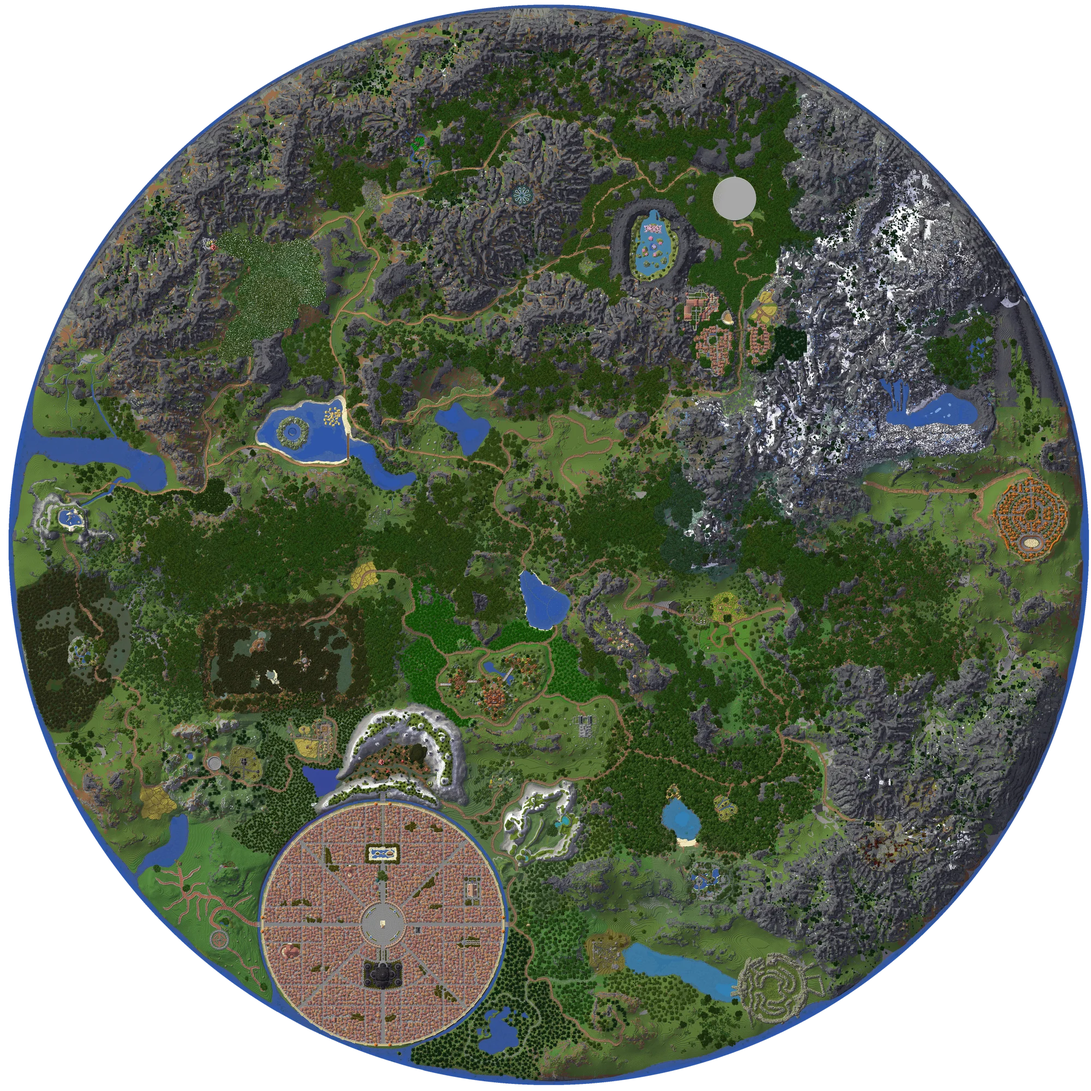
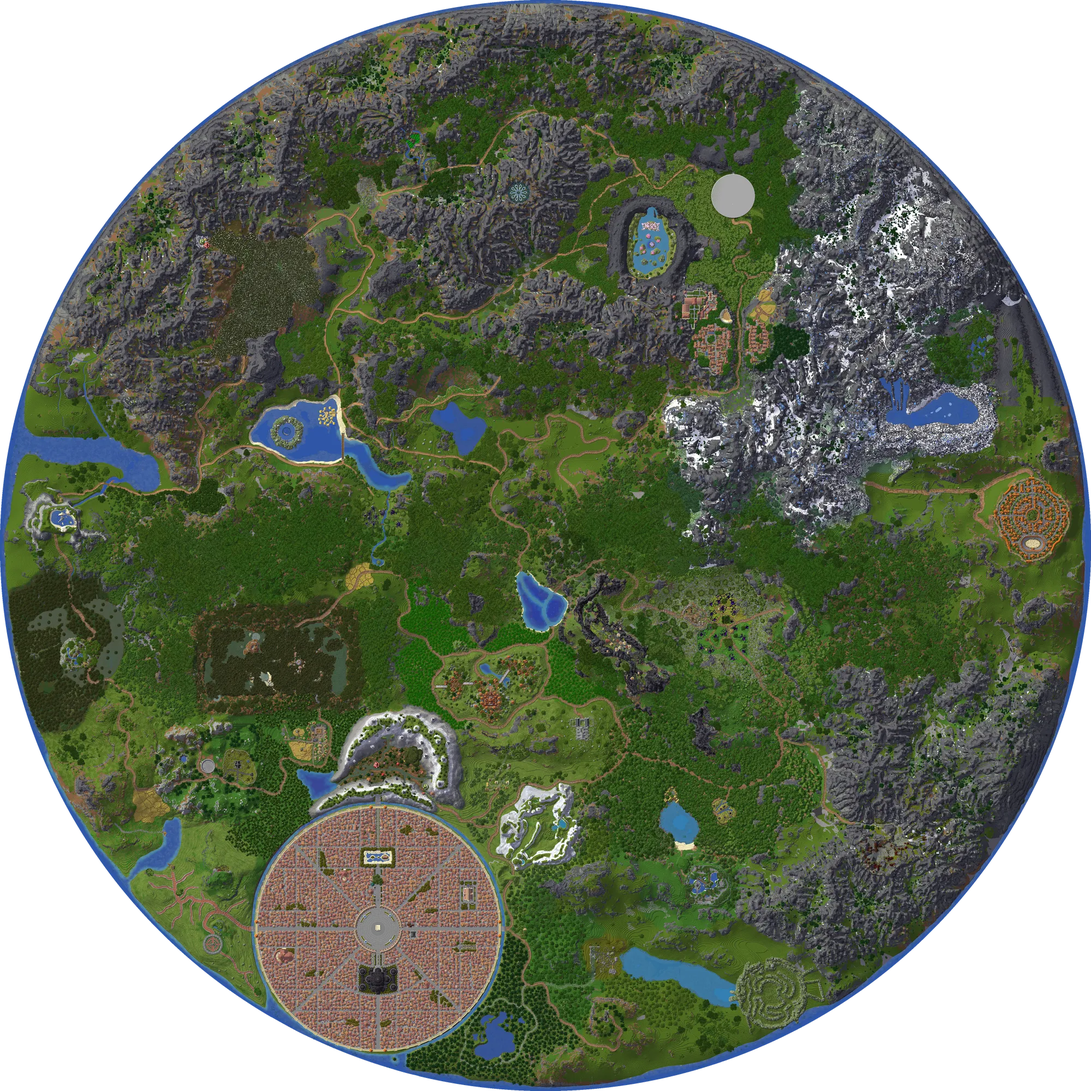
Carte étage 1: nouvelle image (source SAO-MC-Interactive-Map, 4952 px), calibration recalée, marqueurs inchangés
Image = ancienne carte recadrée en (39,21), échelle 1:1 ; sous-sol recadré pareil.
Cache-busting ?v=2 sur les images de l'étage 1 et data.js.

diff --git a/Map/map.js b/Map/map.js
@@ -681,10 +681,10 @@ function loadMapImage(n, layer) {
   if (layer === 'underground') {
     mapImg.style.opacity = '0';
     mapImg.style.zIndex  = '1';
-    mapImg.src = `../img/maps/floor-${n}_underground.webp`;
+    mapImg.src = `../img/maps/floor-${n}_underground.webp${n === 1 ? '?v=2' : ''}`;
     mapImg.onload  = () => { mapImg.style.opacity = '1'; mapImg.removeAttribute('data-missing'); document.getElementById('map-loading')?.remove(); };
     mapImg.onerror = () => { mapImg.src = ''; mapImg.setAttribute('data-missing', 'true'); mapImg.style.opacity = '0'; document.getElementById('map-loading')?.remove(); };
-    ghost.src           = `../img/maps/floor-${n}.webp`;
+    ghost.src           = `../img/maps/floor-${n}.webp${n === 1 ? '?v=2' : ''}`;
     ghost.style.filter  = 'grayscale(60%) brightness(0.8)';
     ghost.style.zIndex  = '0';
     ghost.style.opacity = '0.10';
@@ -694,7 +694,7 @@ function loadMapImage(n, layer) {
     mapImg.src = `../img/maps/floor-${n}_donjon.png`;
     mapImg.onload  = () => { mapImg.style.opacity = '1'; mapImg.removeAttribute('data-missing'); document.getElementById('map-loading')?.remove(); };
     mapImg.onerror = () => { mapImg.src = ''; mapImg.setAttribute('data-missing', 'true'); mapImg.style.opacity = '0'; document.getElementById('map-loading')?.remove(); };
-    ghost.src           = `../img/maps/floor-${n}_underground.webp`;
+    ghost.src           = `../img/maps/floor-${n}_underground.webp${n === 1 ? '?v=2' : ''}`;
     ghost.style.filter  = 'grayscale(60%) brightness(0.8)';
     ghost.style.zIndex  = '0';
     ghost.style.opacity = '0.10';
@@ -702,8 +702,8 @@ function loadMapImage(n, layer) {
     mapImg.style.opacity = '0';
     mapImg.style.zIndex  = '';
     // Étage 1 (5000 px, 12 Mo) : un aperçu de 1 Mo s'affiche tout de suite, puis la carte pleine résolution la remplace sans clignotement
-    const full = `../img/maps/floor-${n}.webp`;
-    const preview = n === 1 ? `../img/maps/floor-1.preview.webp` : null;
+    const full = `../img/maps/floor-${n}.webp${n === 1 ? '?v=2' : ''}`;
+    const preview = n === 1 ? `../img/maps/floor-1.preview.webp?v=2` : null;
     mapImg.dataset.target = full;
     mapImg.src = preview || full;
     if (preview) {

diff --git a/moderation.html b/moderation.html
@@ -1415,7 +1415,7 @@ style="font-size:12px;">← Retour</button>
   <button onclick="tpkLbClose()" style="position:absolute;top:12px;right:14px;background:rgba(255,255,255,.12);border:none;color:#fff;font-size:16px;cursor:pointer;padding:3px 10px;border-radius:4px;line-height:1.6;">✕</button>
   <div style="position:absolute;bottom:20px;right:16px;font-size:10px;color:rgba(255,255,255,.3);pointer-events:none;">Molette : zoom · Glisser : déplacer · Esc : fermer</div>
 </div>
-<script src="Map/data.js"></script>
+<script src="Map/data.js?v=2"></script>
 <script src="utils.js"></script>
 <script src="Compendium/data.js"></script>
 <script>

diff --git a/Map/data.js b/Map/data.js
@@ -14,10 +14,12 @@ const FLOOR_DATA = {
 
 const MAP_CALIBRATION = {
   1: {
-    centerPixel: { x: 450,    y: 450   },
+    // Image 4952 px (source SAO-MC-Interactive-Map) = ancienne image 5000 px recadrée en (39,21), échelle 1:1.
+    // Repère de jeu inchangé : les marqueurs existants restent exactement au même endroit.
+    centerPixel: { x: 447.274, y: 450.545 },
     centerGame:  { x: 2545.6, y: 2550 },
     radiusPixel: 450,
-    radiusGame:  2498.1,
+    radiusGame:  2474.118,
   },
   2: {
     centerPixel: { x: 450,  y: 450 },

diff --git a/moderation-map.js b/moderation-map.js
@@ -209,8 +209,8 @@ function _zeInitPanZoom() {
 
 function _zeMapSrc() {
   return _zeLayer === 'underground'
-    ? `img/maps/floor-${_zeFloor}_underground.webp`
-    : `img/maps/floor-${_zeFloor}.webp`;
+    ? `img/maps/floor-${_zeFloor}_underground.webp${_zeFloor === 1 ? '?v=2' : ''}`
+    : `img/maps/floor-${_zeFloor}.webp${_zeFloor === 1 ? '?v=2' : ''}`;
 }
 
 function _zeUpdateLayerButtons() {

diff --git a/creator.html b/creator.html
@@ -1084,7 +1084,7 @@
 <!-- Données externes -->
 <script src="utils.js"></script>
 <script src="Bestiaire/mob_data.js"></script>
-<script src="Map/data.js"></script>
+<script src="Map/data.js?v=2"></script>
 <script src="Compendium/data.js"></script>
 
 <!-- Module 1 : Auth + soumission Firestore -->

diff --git a/Map/map.html b/Map/map.html
@@ -364,7 +364,7 @@
   </div>
 
   <script src="../utils.js"></script>
-  <script src="data.js"></script>
+  <script src="data.js?v=2"></script>
   <script type="module">
     import { store } from '../store.js';
     import { db, logPageView }    from '../firebase.js';
